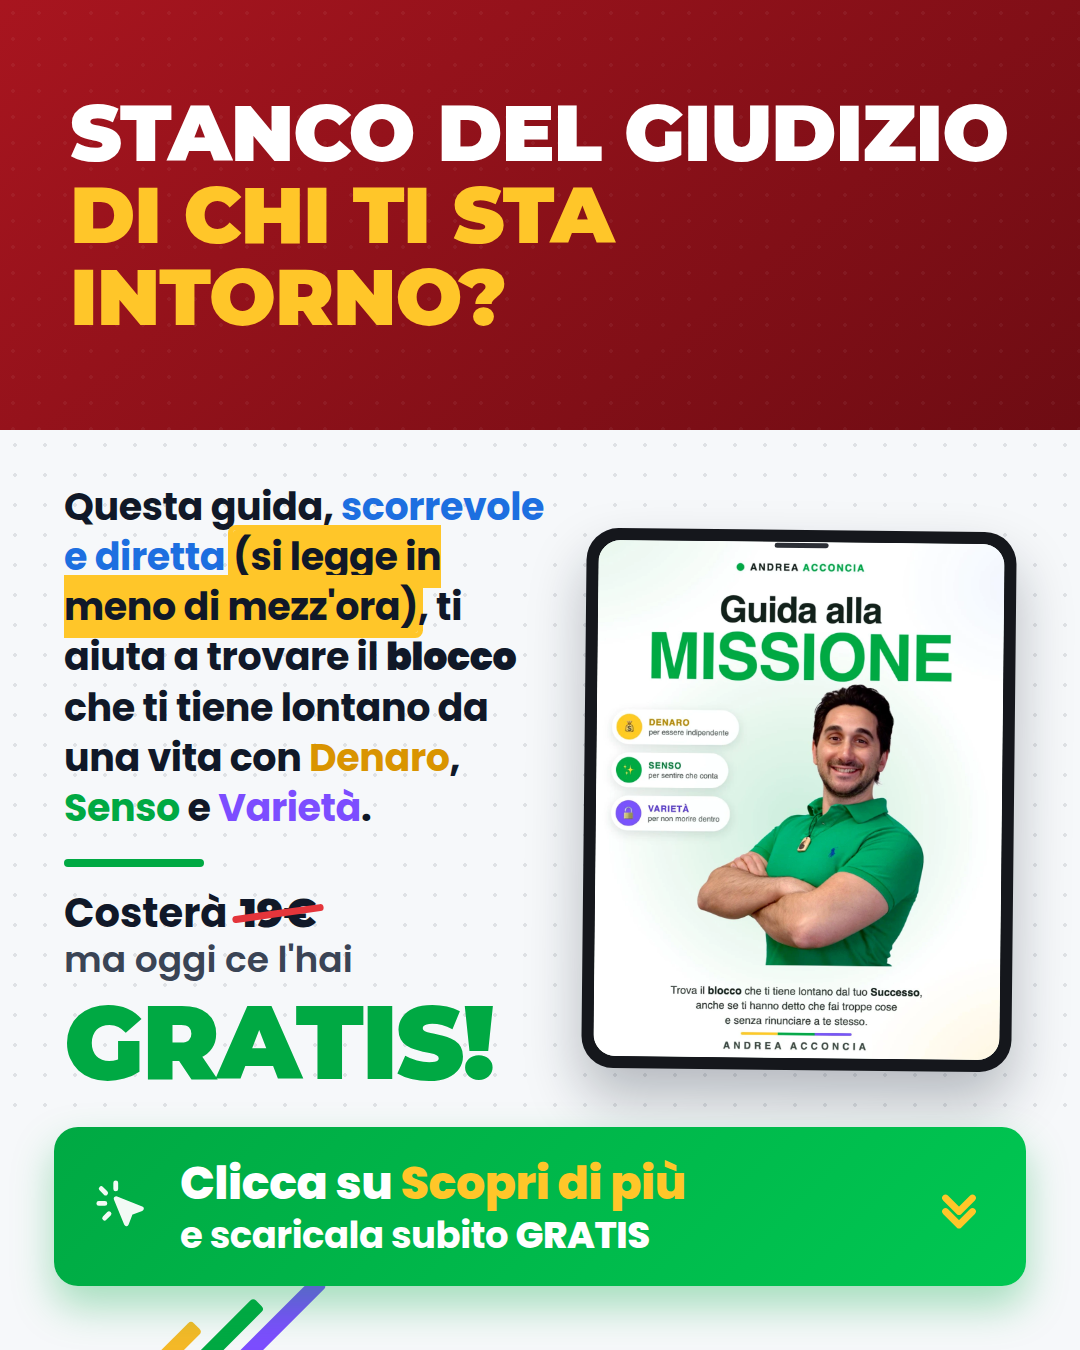
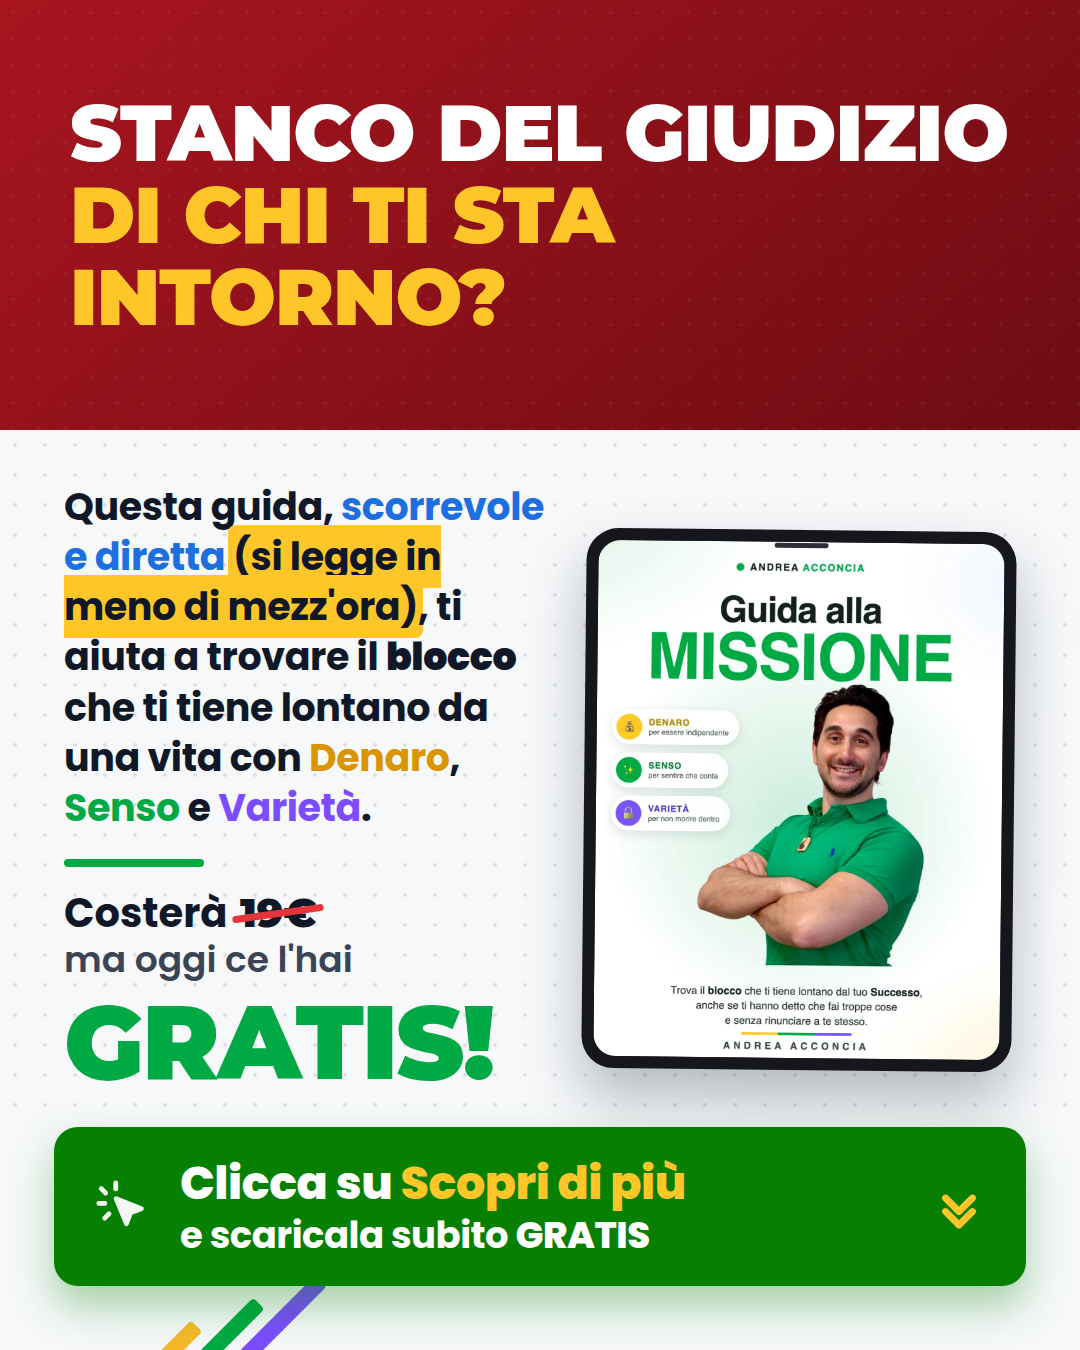
Pulsante CTA nel verde di brand esatto #078001
Sostituisce il verde ricavato per approssimazione dalla copertina
(#00A943) con l'hex fornito da Andrea, campionato dallo swatch:
tinta perfettamente uniforme su tutti i pixel.

Il pulsante passa a tinta piatta invece che a gradiente, cosi' e'
esattamente quel colore e non una sfumatura che lo attraversa.
Ombra riallineata a rgba(7,128,1,.34).

Restano su #00A943 "GRATIS!", il filetto e la striscia: e' il verde
con cui e' disegnata la copertina, che nel creativo sta a pochi
centimetri da loro.

Claude-Session: https://claude.ai/code/session_016egf769pWHnc4UkpRBaZxo

Changed region(s): [[0.0306, 0.8089, 0.9472, 0.9644]]

diff --git a/src/template.js b/src/template.js
@@ -7,8 +7,7 @@ const C = {
   gold: '#F5B928',
   green: '#00A943',      // verde di brand (campionato dalla copertina)
   purple: '#7C4DFF',
-  ctaFrom: '#00A943',    // pulsante CTA: verde di brand
-  ctaTo: '#00C752',      // stessa tinta, piu chiara, per il gradiente
+  cta: '#078001',        // pulsante CTA: verde di brand (header andreaacconcia.it)
   ink: '#101828',
   paper: '#F6F8FA',
   painFrom: '#A8151F',
@@ -118,8 +117,8 @@ body{font-family:'Poppins',sans-serif;background:${C.paper};overflow:hidden}
 /* ---------- CTA ---------- */
 .cta-wrap{position:relative;z-index:2;flex:0 0 auto;padding:0 54px 64px}
 .cta{display:flex;align-items:center;gap:28px;padding:30px 40px;border-radius:24px;
-  background:linear-gradient(135deg,${C.ctaFrom} 0%,${C.ctaTo} 100%);
-  box-shadow:0 20px 40px rgba(0,169,67,.34)}
+  background:${C.cta};
+  box-shadow:0 20px 40px rgba(7,128,1,.34)}
 .cta .click{flex:0 0 auto;color:#fff;opacity:.95;display:flex}
 .cta .txt{flex:1 1 auto;min-width:0;color:#fff;font-weight:800;font-size:46px;line-height:1.14;letter-spacing:-.5px}
 .cta .txt .l2{display:block;font-weight:700;font-size:37px;margin-top:4px}

diff --git a/README.md b/README.md
@@ -6,9 +6,10 @@ Generatore di creativi 4:5 (1080×1350) per le sponsorizzate del manuale gratuit
 Il layout ricalca i creativi già in uso per il Metodo OCME (banda superiore con il
 pain, corpo con copy + mockup della copertina, bottone CTA blu, strisce diagonali
 in basso a sinistra), con la palette della Guida alla Missione:
-oro `#F5B928` · verde di brand `#00A943` · viola `#7C4DFF`.
-Il verde è campionato dal lettering "MISSIONE" della copertina ed è lo stesso
-usato per il pulsante CTA.
+oro `#F5B928` · verde di brand `#078001` · viola `#7C4DFF`.
+Il pulsante CTA usa il verde di brand `#078001`; i verdi di "GRATIS!", del
+filetto e della striscia restano su `#00A943`, il verde con cui è disegnata
+la copertina, per non stonare col mockup che hanno accanto.
 
 ## Come si usa
 
